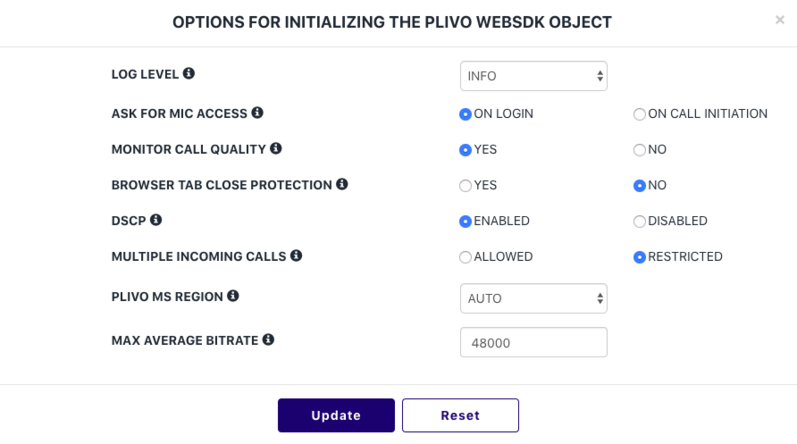
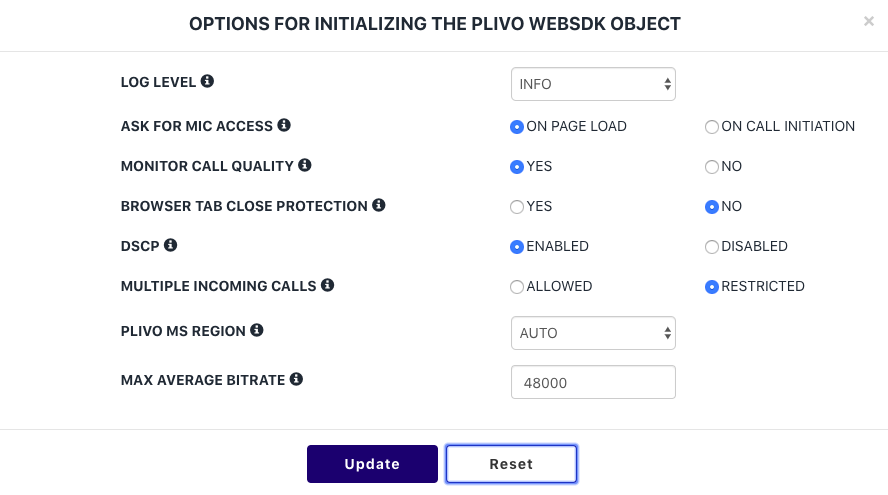
Updated readme

diff --git a/webApp-plivo/public/js/customclient.js b/webApp-plivo/public/js/customclient.js
@@ -22,8 +22,7 @@ var defaultSettings = {
 	"closeProtection":false,
 	"maxAverageBitrate":48000,
 	"dialType":"conference",
-	"allowMultipleIncomingCalls":false,
-	"onLoginMicAccess":true
+	"allowMultipleIncomingCalls":false
   };
 
 var iti;
@@ -374,7 +373,7 @@ function closeMetrics(e){
 
 function resetSettings(){
 	document.getElementById('loglevelbtn').value = "INFO"
-	document.getElementById('onlogin').checked = true
+	document.getElementById('onpageload').checked = true
 	document.getElementById('monitorquality').checked = true
 	document.getElementById('dontcloseprotect').checked = true
 	document.getElementById('allowdscp').checked = true
@@ -389,7 +388,7 @@ function refreshSettings(){
 	if(getSettings){
 		var parsedSettings = JSON.parse(getSettings);
 		document.getElementById('loglevelbtn').value = parsedSettings.debug;
-		updateElementsInConfig(parsedSettings.onLoginMicAccess, 'onlogin', 'oncallinit');
+		updateElementsInConfig(parsedSettings.permOnClick, 'oncallinit', 'onpageload');
 		updateElementsInConfig(parsedSettings.enableTracking, 'monitorquality', 'dontmonitorquality');
 		updateElementsInConfig(parsedSettings.closeProtection, 'closeprotect', 'dontcloseprotect');
 		updateElementsInConfig(parsedSettings.dscp, 'allowdscp', 'nodscp');
@@ -411,7 +410,7 @@ function refreshSettings(){
 function updateSettings(val){
 	let loglevel = document.getElementById('loglevelbtn').value;
 	val.debug = loglevel;
-	changeVal(val, document.getElementById('onlogin').checked, 'onLoginMicAccess', false);
+	changeVal(val, document.getElementById('onpageload').checked, 'permOnClick', true);
 	changeVal(val, document.getElementById('monitorquality').checked, "enableTracking", false);
 	changeVal(val, document.getElementById('dontcloseprotect').checked, "closeProtection", true);
 	changeVal(val, document.getElementById('allowdscp').checked, "dscp", false);
@@ -642,7 +641,7 @@ function implementToken(username){
 		//get JWT Token
 		const requestBody = {
 			"auth_id" : "mmmmmm",
-			"auth_token" : "mmmmm",
+			"auth_token" : "mmmmmm",
 			"start_time":parseInt(Date.now()/1000),
 			"end_time":parseInt(Date.now()/1000) + 1000,
 			"is_incoming_grant":true,
@@ -666,7 +665,7 @@ function implementToken(username){
 		}		
 	}
 	var jwtTokenObject = new JwtToken();
-    loginJWT(jwtTokenObject);
+	return jwtTokenObject;
 }
 
 function loginJWT(jwtTokenObject){
@@ -951,8 +950,9 @@ $('#clickLogin').click(function(e){
 });
 
 $('#clickLoginJWT').click(function(e){
-	var userName = $('#loginJwtUser').val();
-	implementToken(userName);
+	let userName = $('#loginJwtUser').val();
+	let jwtTokenObject = implementToken(userName);
+	loginJWT(jwtTokenObject);
 });
 
 // Audio device selection

diff --git a/README.md b/README.md
@@ -121,7 +121,7 @@ function implementToken(username){
     }     
   }
   var jwtTokenObject = new JwtToken();
-  loginJWT(jwtTokenObject);
+  return jwtTokenObject;
 }
 
 function loginJWT(jwtTokenObject){
@@ -137,8 +137,9 @@ function loginJWT(jwtTokenObject){
 }
 
 $('#clickLoginJWT').click(function(e){
-  var userName = $('#loginJwtUser').val();
-  implementToken(userName);
+  let userName = $('#loginJwtUser').val();
+  let jwtTokenObject = implementToken(userName);
+  loginJWT(jwtTokenObject);
 });
 ``` 
 ### Options
@@ -149,7 +150,7 @@ $('#clickLoginJWT').click(function(e){
 var defaultSettings = { "debug":"DEBUG", "permOnClick":true, "codecs":["OPUS","PCMU"], "enableIPV6":false, "audioConstraints":{"optional":[{"googAutoGainControl":false}, {"googEchoCancellation":false}]}, "enableTracking":true, "closeProtection":false, "maxAverageBitrate":48000}
 function resetSettings(){
   document.getElementById('loglevelbtn').value = "INFO"
-  document.getElementById('onlogin').checked = true
+  document.getElementById('onpageload').checked = true
   document.getElementById('monitorquality').checked = true
   document.getElementById('dontcloseprotect').checked = true
   document.getElementById('allowdscp').checked = true
@@ -162,7 +163,7 @@ function resetSettings(){
 function updateSettings(val){
   let loglevel = document.getElementById('loglevelbtn').value;
   val.debug = loglevel;
-  changeVal(val, document.getElementById('onlogin').checked, 'onLoginMicAccess', false);
+  changeVal(val, document.getElementById('onpageload').checked, 'permOnClick', true);
   changeVal(val, document.getElementById('monitorquality').checked, "enableTracking", false);
   changeVal(val, document.getElementById('dontcloseprotect').checked, "closeProtection", true);
   changeVal(val, document.getElementById('allowdscp').checked, "dscp", false);
